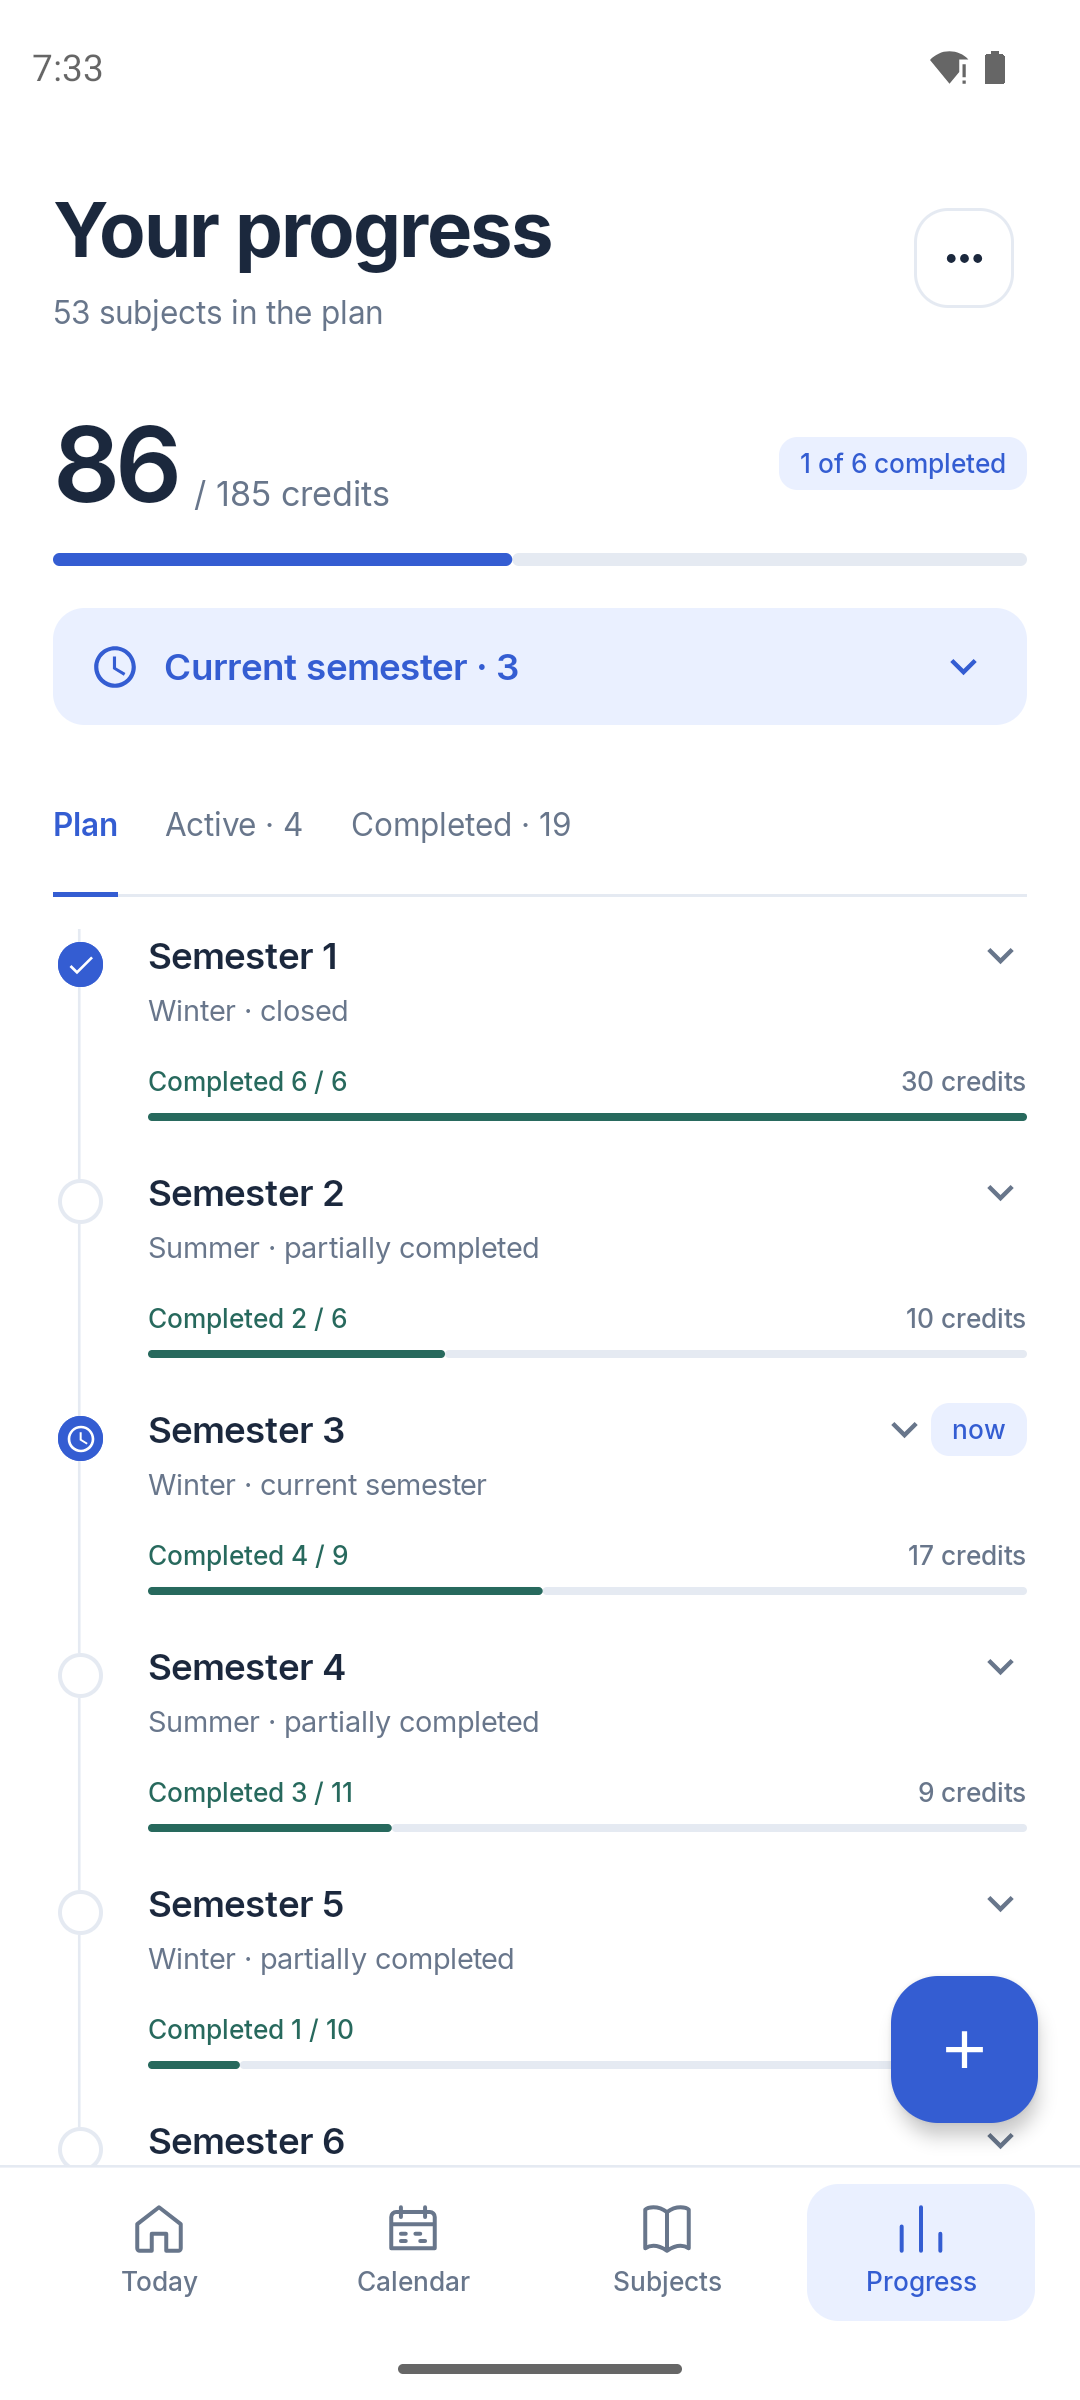
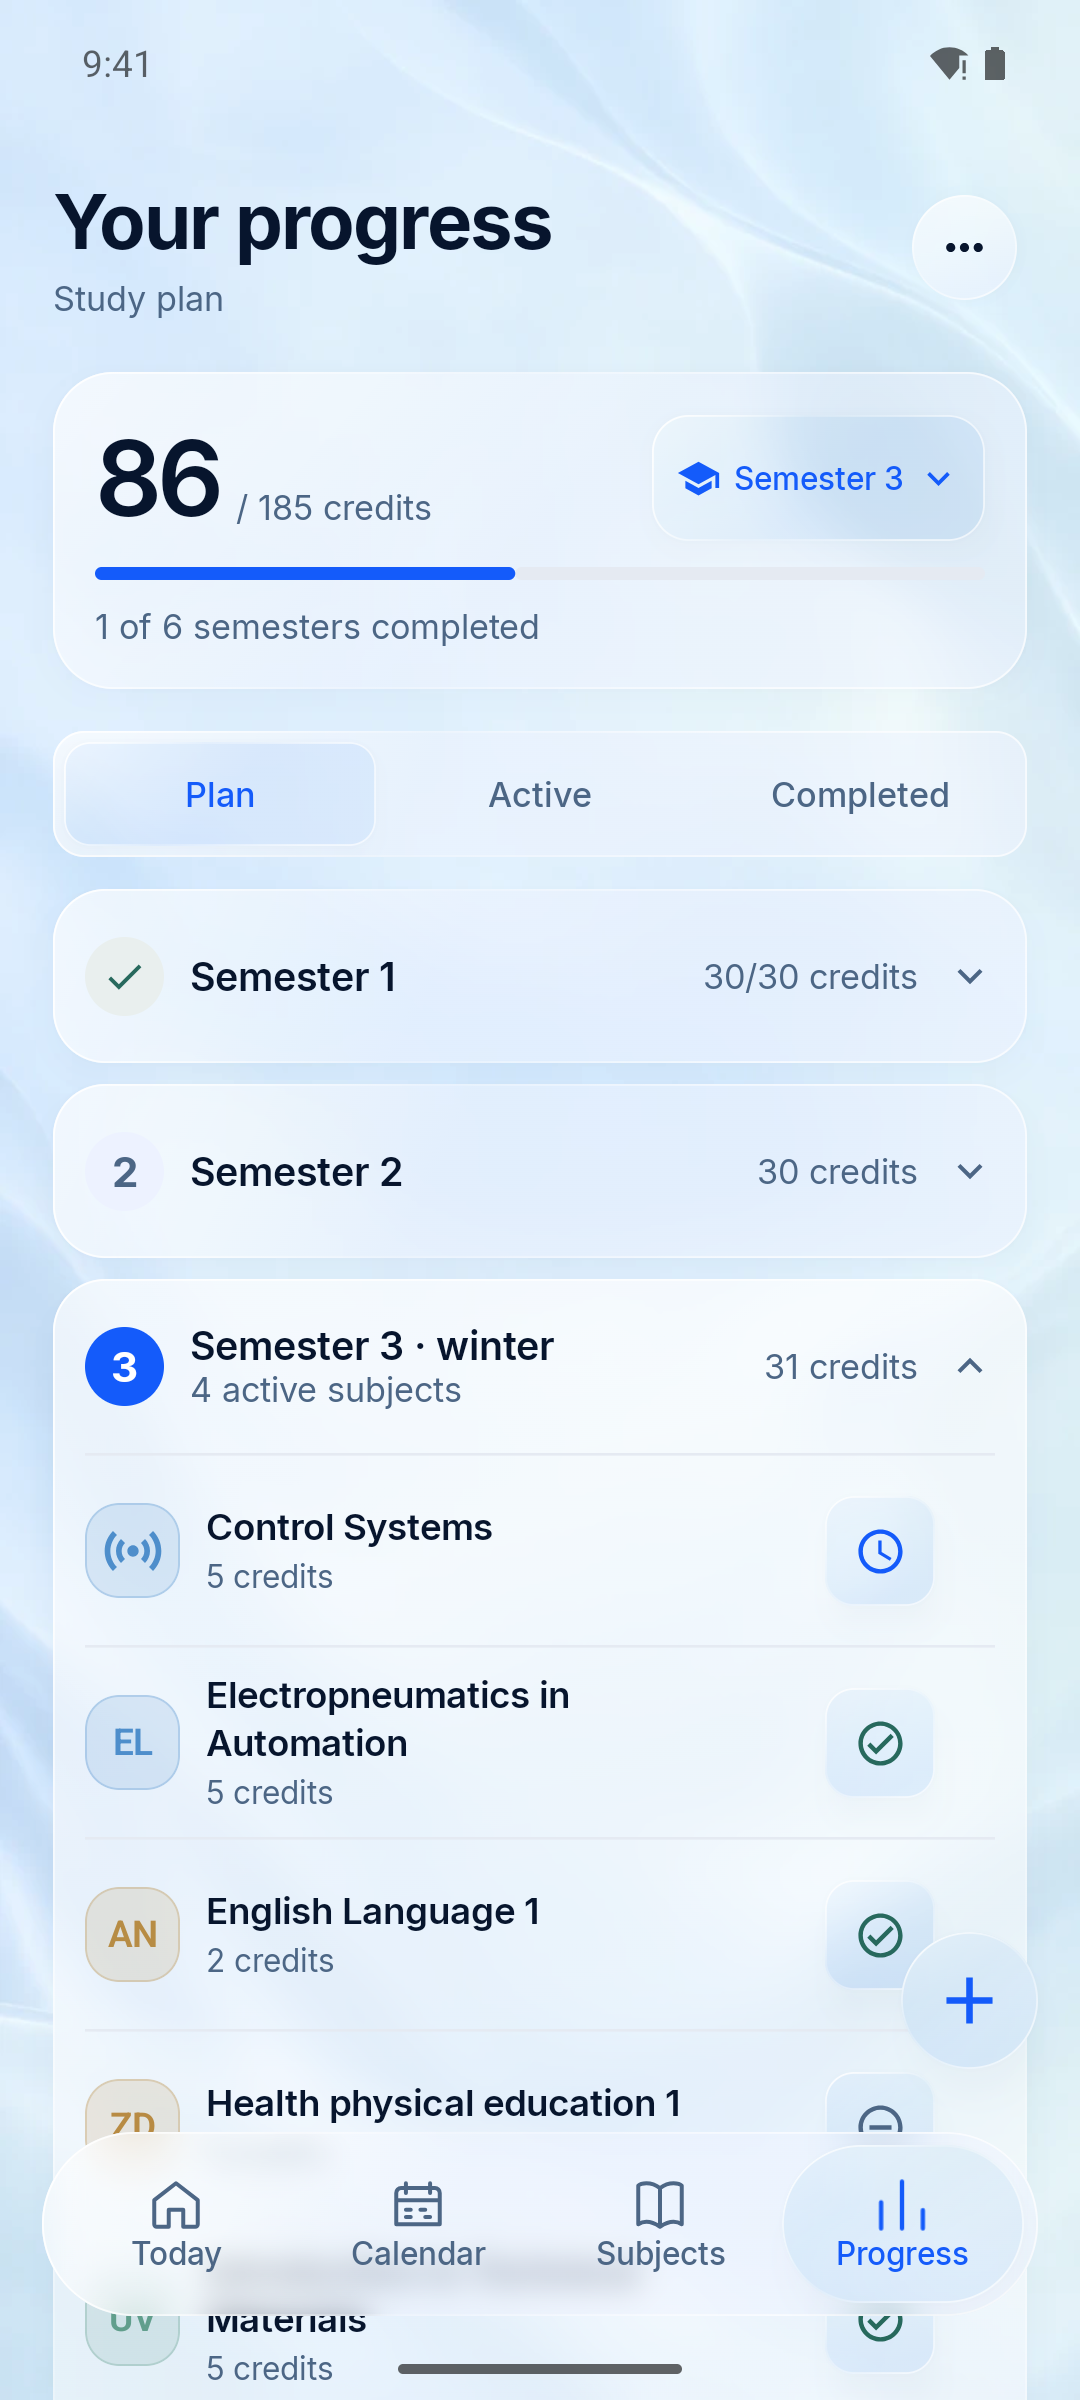
Refresh README with signed 0.3.0 screenshots and feature highlights

diff --git a/README.md b/README.md
@@ -6,13 +6,23 @@ Version 0.3.0 is an early release. Takt is built with Kotlin and Jetpack Compose
 
 ## Screenshots
 
-| Today | Week list |
+| Today | Weekly schedule |
 | :---: | :---: |
-| <img src="docs/screenshots/today.png" alt="Today's classes and upcoming tasks" width="260"> | <img src="docs/screenshots/week-list.png" alt="Calendar week list with classes and tasks" width="260"> |
-| Exam | Progress |
-| <img src="docs/screenshots/exam.png" alt="Exam preparation and target grade" width="260"> | <img src="docs/screenshots/progress.png" alt="Study plan and semester progress" width="260"> |
+| <img src="docs/screenshots/today.png" alt="Takt 0.3.0 Today screen with a class timeline, breaks and upcoming work" width="260"><br>Classes, breaks, deadlines and task filters. | <img src="docs/screenshots/week-list.png" alt="Takt 0.3.0 weekly list grouping classes and tasks by day" width="260"><br>A weekly overview of classes and upcoming work. |
+| Exam preparation | Study progress |
+| <img src="docs/screenshots/exam.png" alt="Exam date, target grade, points needed and eligibility requirements" width="260"><br>Target grades, achievable points and exam eligibility. | <img src="docs/screenshots/progress.png" alt="Study plan with credit totals, semesters and subject status" width="260"><br>Credits, semesters and subject completion in one place. |
+| Course notes | Custom themes |
+| <img src="docs/screenshots/notes.png" alt="Course notes with readable previews and a saved lecture link" width="260"><br>Course notes with previews, links and attachments. | <img src="docs/screenshots/appearance.png" alt="Named custom theme Blue hour with a live appearance preview" width="260"><br>Named themes with a live preview before applying. |
 
-These screenshots show version 0.2.0 with English example data on a Pixel 7 emulator. A new installation starts with an empty study plan, not the example schedule.
+Captured from the signed **0.3.0** release on an Android 15 Pixel 6 emulator, using English and fictional study data. A new installation starts with an empty study plan, not the example schedule.
+
+## What's new in 0.3.0
+
+- Liquid Glass interface with updated navigation, calendar, subject pages and notes.
+- Named custom color themes, personal background images and three card styles. Appearance and background images are included in backups.
+- STU UIS course documents with file names and downloads to the connected `Documents/Takt/<COURSE_CODE>` folder.
+- Cached course teachers and consultation hours that refresh in the background and travel with backups.
+- Safer backup validation and restore recovery, prompt UIS request cancellation, and editor drafts that remain available after failed saves or activity recreation.
 
 ## Install
 
